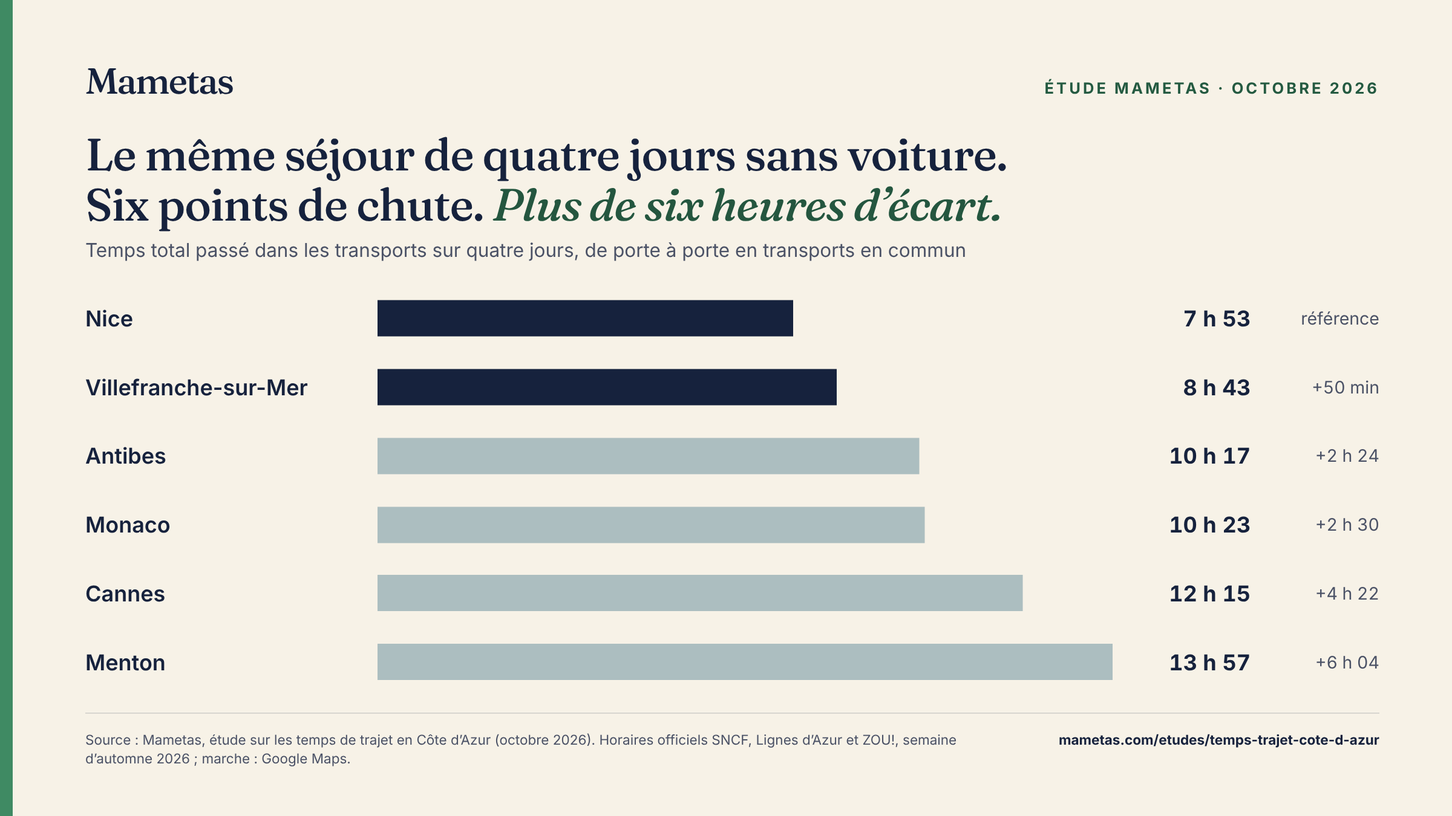
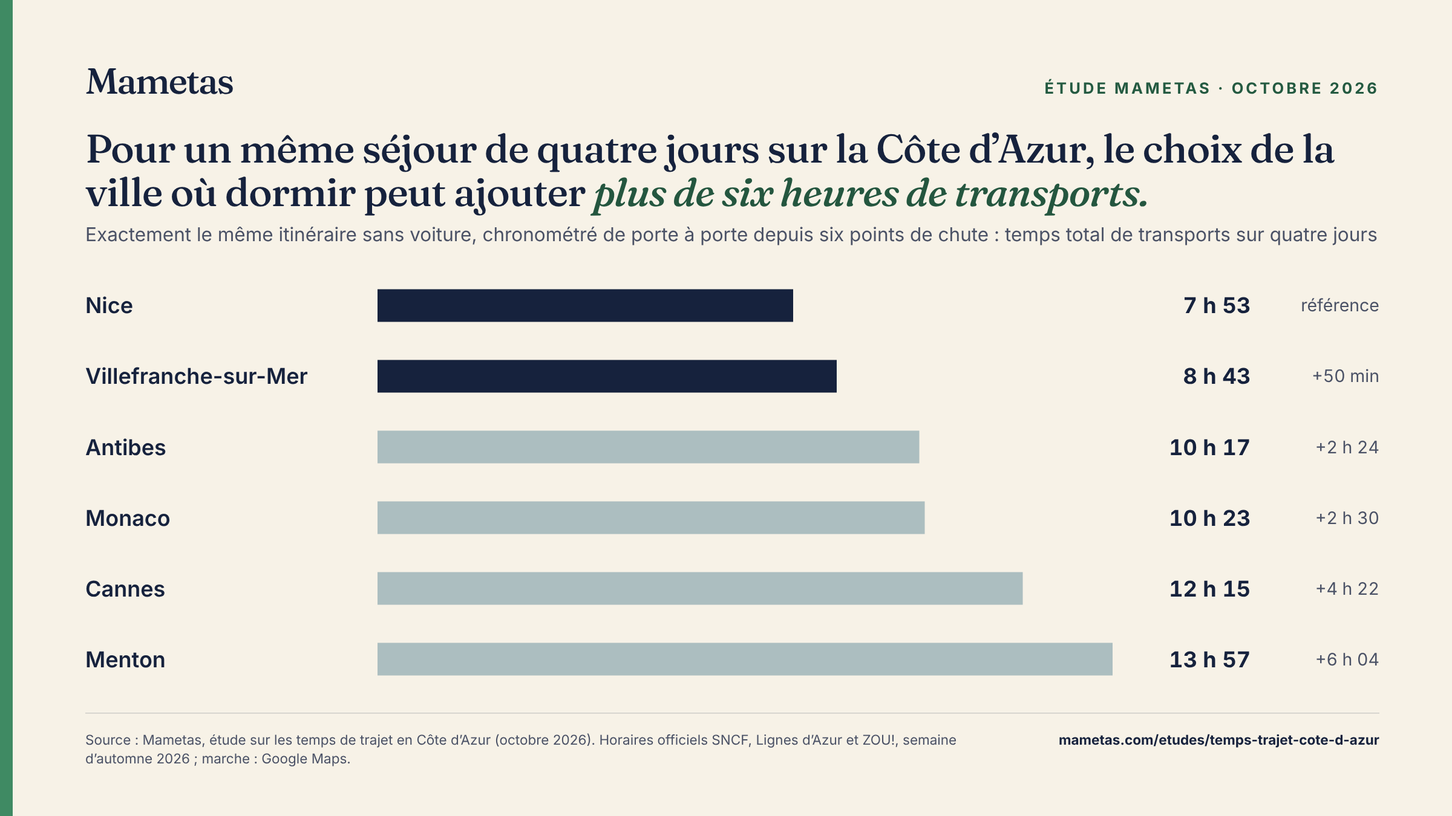
Kit presse : angle « Where you stay can add more than six hours of travel »
- Bloc presse EN/FR, cartes Pratique EN/FR, graphiques presse EN/FR et descriptions
  (meta, og, twitter) des pages étude : l'accroche dit explicitement que c'est le choix
  de la ville où l'on dort qui ajoute plus de six heures de transport, chiffres exacts ensuite.
- Le bandeau HP garde « Same trip. Same sights. » comme signature.

Claude-Session: https://claude.ai/code/session_0178RkrA6fxdvZhBzZqEbeS6

diff --git a/site/presse/index.html b/site/presse/index.html
@@ -1,5 +1,5 @@
 <!doctype html><html lang="fr"><head><meta charset="utf-8"><meta name="viewport" content="width=device-width,initial-scale=1"><title>Presse & professionnels | Mametas</title><meta name="description" content="Mametas en une phrase, sa méthode, ses outils Riviera Fit et Hotel Fit, et le contact presse et professionnels du tourisme."><link rel="canonical" href="https://www.mametas.com/presse/"><link rel="alternate" hreflang="fr" href="https://www.mametas.com/presse/"><link rel="alternate" hreflang="en" href="https://www.mametas.com/en/press/"><link rel="alternate" hreflang="x-default" href="https://www.mametas.com/en/press/"><meta name="robots" content="index,follow"><link rel="stylesheet" href="/assets/v3.css?v=1.3"><link href="/favicon.svg" rel="icon" type="image/svg+xml"><script defer src="/assets/consent.js?v=1.1"></script><link rel="stylesheet" href="/assets/mametas-shell-v1.css?v=1.2">
 <link rel="stylesheet" href="/assets/mametas-foundation.css?v=1.10">
 <style>.press-research{padding-bottom:0}.press-research .data-entry-card--study .data-entry-stats{background:rgba(63,138,99,.08)}.press-research .data-entry-card--study .data-entry-stats b{color:#24563f}.press-research .data-entry-note{line-height:1.9}@media(max-width:800px){.data-entry-card--study .data-entry-stats{grid-template-columns:1fr 1fr;grid-template-rows:auto auto;grid-auto-flow:column;column-gap:18px;padding:20px}.data-entry-card--study .data-entry-stats em{margin-bottom:0}}</style>
-</head><body><header class="mametas-global-header" data-mametas-shell="v1"><div class="mametas-global-header-inner"><a class="mametas-global-brand" href="/fr/" aria-label="Mametas"><span class="mametas-global-brand-name">Mametas</span><span class="mametas-global-brand-line">They know the Riviera.</span></a><nav class="mametas-global-nav" aria-label="Navigation principale"><ul><li><a href="/fr/planifier/">Préparer</a></li><li><a href="/riviera-guide/">Destinations</a></li><li><a href="/hotels/">Dormir</a></li><li><a href="/explore/">Explorer</a></li><li><a href="/pratique/">Pratique</a></li></ul></nav><div class="mametas-global-lang" aria-label="Langue"><a class="active" href="/presse/" aria-current="page">FR</a><span>/</span><a class="" href="/en/press/">EN</a></div><details class="mametas-global-mobile"><summary aria-label="Menu"><span></span><span></span><span></span></summary><div class="mametas-global-mobile-panel"><nav aria-label="Navigation principale"><ul><li><a href="/fr/planifier/">Préparer</a></li><li><a href="/riviera-guide/">Destinations</a></li><li><a href="/hotels/">Dormir</a></li><li><a href="/explore/">Explorer</a></li><li><a href="/pratique/">Pratique</a></li></ul></nav><div class="mametas-global-mobile-lang"><a class="active" href="/presse/" aria-current="page">FR</a><span>/</span><a class="" href="/en/press/">EN</a></div></div></details></div></header><main><header class="article-hero"><div class="wrap"><p class="eyebrow">PRESSE & PROFESSIONNELS</p><h1>Un guide qui tranche, puis montre son raisonnement.</h1><p class="article-deck">Mametas aborde la Côte d’Azur comme une série de décisions : où dormir, faut-il une voiture, quel hôtel correspond au séjour, quelle friction accepter et ce qu’on peut laisser tomber sans regret.</p></div></header><section class="v3-section press-research"><div class="wrap"><p class="eyebrow">DERNIÈRE ÉTUDE MAMETAS</p><div class="data-entry-card data-entry-card--study"><span class="data-entry-stats"><b>+6 h</b><em>d’écart de transport</em><b>6</b><em>villes chronométrées</em></span><span class="data-entry-copy"><small>ÉTUDE SUR LES TEMPS DE TRAJET EN CÔTE D’AZUR · OCTOBRE 2026</small><strong>Même séjour de quatre jours sans voiture. Six points de chute. Plus de six heures d’écart dans les transports.</strong><p>Chronométré de porte à porte sur les horaires officiels SNCF, Lignes d’Azur et ZOU!. Méthode, sources, limites et données sont publiques ; les chiffres peuvent être repris avec un lien vers l’étude.</p><a href="/etudes/temps-trajet-cote-d-azur/"><b>Lire l’étude →</b></a><p class="data-entry-note"><a href="/assets/studies/etude-temps-trajet-cote-d-azur-donnees-2026.xlsx" download>Télécharger les données (XLSX)</a> · <a href="/assets/studies/etude-temps-trajet-cote-d-azur-graphique-fr.png" download>Graphique presse (PNG)</a> · Contact presse : <a href="mailto:hello@mametas.com">hello@mametas.com</a></p></span></div></div></section><section class="v3-section"><div class="wrap press-grid"><article><span>01</span><h2>Mametas en une phrase</h2><p>La plupart des guides disent ce qu’il y a. Mametas dit ce qui vous correspond, et ce qu’il vaut mieux éviter.</p></article><article><span>02</span><h2>Deux outils, une même logique</h2><p><strong>Mametas Riviera Fit</strong> choisit une ville. <strong>Mametas Hotel Fit</strong> réduit la sélection d’hôtels une fois la géographie réglée. <strong>À savoir</strong> n’est pas un troisième outil : c’est la couche qui rend visibles la voiture, le budget, la saison et la friction dans les recommandations.</p></article><article><span>03</span><h2>La méthode</h2><p>Sources identifiables, dates de vérification visibles et séparation nette entre faits vérifiés et jugement éditorial. <a href="/methode/">Voir Mametas Checked →</a></p></article><article><span>04</span><h2>Éditeur</h2><p>Mametas est créé et édité par Renaud Muraire, Niçois. Les cinq Mametas sont des personnages éditoriaux fictifs. <a href="/a-propos/">À propos →</a></p></article></div><div class="wrap press-contact"><p class="eyebrow">CONTACT</p><h2>Journalistes, offices de tourisme, hôtels et acteurs de la Riviera.</h2><p>Pour une information, un visuel, une correction documentée, une interview ou un partenariat éditorial : <a href="mailto:hello@mametas.com">hello@mametas.com</a>.</p></div></section></main><footer class="mametas-global-footer" data-mametas-shell="v1"><div class="mametas-global-footer-inner"><div class="mametas-global-footer-brand"><span>Mametas</span><p>They know the Riviera.</p></div><div class="mametas-global-footer-col"><strong>Navigation</strong><a href="/fr/planifier/">Préparer</a><a href="/riviera-guide/">Destinations</a><a href="/hotels/">Dormir</a><a href="/explore/">Explorer</a><a href="/pratique/">Pratique</a></div><div class="mametas-global-footer-col"><strong>Mametas</strong><a href="/a-propos/">À propos</a><a href="/methode/">Méthode & Mametas Checked</a><a href="/lexique/">Mini-lexique niçois</a><a data-privacy-link="true" href="/fr/confidentialite/">Confidentialité & cookies</a><a href="/fr/mentions-legales/">Mentions légales</a></div></div><div class="mametas-global-footer-bottom"><span>Sélection éditoriale indépendante. Informations pratiques vérifiées. Certains liens sont affiliés.</span><span>© 2026 Mametas</span></div></footer><script src="/assets/v3.js?v=0.8"></script><script defer src="/assets/mametas-shell-v1.js?v=1.0"></script>
+</head><body><header class="mametas-global-header" data-mametas-shell="v1"><div class="mametas-global-header-inner"><a class="mametas-global-brand" href="/fr/" aria-label="Mametas"><span class="mametas-global-brand-name">Mametas</span><span class="mametas-global-brand-line">They know the Riviera.</span></a><nav class="mametas-global-nav" aria-label="Navigation principale"><ul><li><a href="/fr/planifier/">Préparer</a></li><li><a href="/riviera-guide/">Destinations</a></li><li><a href="/hotels/">Dormir</a></li><li><a href="/explore/">Explorer</a></li><li><a href="/pratique/">Pratique</a></li></ul></nav><div class="mametas-global-lang" aria-label="Langue"><a class="active" href="/presse/" aria-current="page">FR</a><span>/</span><a class="" href="/en/press/">EN</a></div><details class="mametas-global-mobile"><summary aria-label="Menu"><span></span><span></span><span></span></summary><div class="mametas-global-mobile-panel"><nav aria-label="Navigation principale"><ul><li><a href="/fr/planifier/">Préparer</a></li><li><a href="/riviera-guide/">Destinations</a></li><li><a href="/hotels/">Dormir</a></li><li><a href="/explore/">Explorer</a></li><li><a href="/pratique/">Pratique</a></li></ul></nav><div class="mametas-global-mobile-lang"><a class="active" href="/presse/" aria-current="page">FR</a><span>/</span><a class="" href="/en/press/">EN</a></div></div></details></div></header><main><header class="article-hero"><div class="wrap"><p class="eyebrow">PRESSE & PROFESSIONNELS</p><h1>Un guide qui tranche, puis montre son raisonnement.</h1><p class="article-deck">Mametas aborde la Côte d’Azur comme une série de décisions : où dormir, faut-il une voiture, quel hôtel correspond au séjour, quelle friction accepter et ce qu’on peut laisser tomber sans regret.</p></div></header><section class="v3-section press-research"><div class="wrap"><p class="eyebrow">DERNIÈRE ÉTUDE MAMETAS</p><div class="data-entry-card data-entry-card--study"><span class="data-entry-stats"><b>+6 h</b><em>d’écart de transport</em><b>6</b><em>villes chronométrées</em></span><span class="data-entry-copy"><small>ÉTUDE SUR LES TEMPS DE TRAJET EN CÔTE D’AZUR · OCTOBRE 2026</small><strong>Pour un même séjour de quatre jours sur la Côte d’Azur, le choix de la ville où dormir peut ajouter plus de six heures de transports.</strong><p>Nous avons chronométré exactement le même itinéraire sans voiture depuis six points de chute, de porte à porte sur les horaires officiels SNCF, Lignes d’Azur et ZOU! : 7 h 53 de transports depuis Nice, 13 h 57 depuis Menton. Méthode, sources, limites et données sont publiques ; les chiffres peuvent être repris avec un lien vers l’étude.</p><a href="/etudes/temps-trajet-cote-d-azur/"><b>Lire l’étude →</b></a><p class="data-entry-note"><a href="/assets/studies/etude-temps-trajet-cote-d-azur-donnees-2026.xlsx" download>Télécharger les données (XLSX)</a> · <a href="/assets/studies/etude-temps-trajet-cote-d-azur-graphique-fr.png" download>Graphique presse (PNG)</a> · Contact presse : <a href="mailto:hello@mametas.com">hello@mametas.com</a></p></span></div></div></section><section class="v3-section"><div class="wrap press-grid"><article><span>01</span><h2>Mametas en une phrase</h2><p>La plupart des guides disent ce qu’il y a. Mametas dit ce qui vous correspond, et ce qu’il vaut mieux éviter.</p></article><article><span>02</span><h2>Deux outils, une même logique</h2><p><strong>Mametas Riviera Fit</strong> choisit une ville. <strong>Mametas Hotel Fit</strong> réduit la sélection d’hôtels une fois la géographie réglée. <strong>À savoir</strong> n’est pas un troisième outil : c’est la couche qui rend visibles la voiture, le budget, la saison et la friction dans les recommandations.</p></article><article><span>03</span><h2>La méthode</h2><p>Sources identifiables, dates de vérification visibles et séparation nette entre faits vérifiés et jugement éditorial. <a href="/methode/">Voir Mametas Checked →</a></p></article><article><span>04</span><h2>Éditeur</h2><p>Mametas est créé et édité par Renaud Muraire, Niçois. Les cinq Mametas sont des personnages éditoriaux fictifs. <a href="/a-propos/">À propos →</a></p></article></div><div class="wrap press-contact"><p class="eyebrow">CONTACT</p><h2>Journalistes, offices de tourisme, hôtels et acteurs de la Riviera.</h2><p>Pour une information, un visuel, une correction documentée, une interview ou un partenariat éditorial : <a href="mailto:hello@mametas.com">hello@mametas.com</a>.</p></div></section></main><footer class="mametas-global-footer" data-mametas-shell="v1"><div class="mametas-global-footer-inner"><div class="mametas-global-footer-brand"><span>Mametas</span><p>They know the Riviera.</p></div><div class="mametas-global-footer-col"><strong>Navigation</strong><a href="/fr/planifier/">Préparer</a><a href="/riviera-guide/">Destinations</a><a href="/hotels/">Dormir</a><a href="/explore/">Explorer</a><a href="/pratique/">Pratique</a></div><div class="mametas-global-footer-col"><strong>Mametas</strong><a href="/a-propos/">À propos</a><a href="/methode/">Méthode & Mametas Checked</a><a href="/lexique/">Mini-lexique niçois</a><a data-privacy-link="true" href="/fr/confidentialite/">Confidentialité & cookies</a><a href="/fr/mentions-legales/">Mentions légales</a></div></div><div class="mametas-global-footer-bottom"><span>Sélection éditoriale indépendante. Informations pratiques vérifiées. Certains liens sont affiliés.</span><span>© 2026 Mametas</span></div></footer><script src="/assets/v3.js?v=0.8"></script><script defer src="/assets/mametas-shell-v1.js?v=1.0"></script>
 </body></html>

diff --git a/site/en/press/index.html b/site/en/press/index.html
@@ -1,5 +1,5 @@
 <!doctype html><html lang="en"><head><meta charset="utf-8"><meta name="viewport" content="width=device-width,initial-scale=1"><title>Press & professionals | Mametas</title><meta name="description" content="Mametas in one sentence, its method, Riviera Fit and Hotel Fit, plus press and tourism-industry contact details."><link rel="canonical" href="https://www.mametas.com/en/press/"><link rel="alternate" hreflang="fr" href="https://www.mametas.com/presse/"><link rel="alternate" hreflang="en" href="https://www.mametas.com/en/press/"><link rel="alternate" hreflang="x-default" href="https://www.mametas.com/en/press/"><meta name="robots" content="index,follow"><link rel="stylesheet" href="/assets/v3.css?v=1.3"><link href="/favicon.svg" rel="icon" type="image/svg+xml"><script defer src="/assets/consent.js?v=1.1"></script><link rel="stylesheet" href="/assets/mametas-shell-v1.css?v=1.2">
 <link rel="stylesheet" href="/assets/mametas-foundation.css?v=1.10">
 <style>.press-research{padding-bottom:0}.press-research .data-entry-card--study .data-entry-stats{background:rgba(63,138,99,.08)}.press-research .data-entry-card--study .data-entry-stats b{color:#24563f}.press-research .data-entry-note{line-height:1.9}@media(max-width:800px){.data-entry-card--study .data-entry-stats{grid-template-columns:1fr 1fr;grid-template-rows:auto auto;grid-auto-flow:column;column-gap:18px;padding:20px}.data-entry-card--study .data-entry-stats em{margin-bottom:0}}</style>
-</head><body><header class="mametas-global-header" data-mametas-shell="v1"><div class="mametas-global-header-inner"><a class="mametas-global-brand" href="/" aria-label="Mametas"><span class="mametas-global-brand-name">Mametas</span><span class="mametas-global-brand-line">They know the Riviera.</span></a><nav class="mametas-global-nav" aria-label="Primary navigation"><ul><li><a href="/plan/">Plan</a></li><li><a href="/en/riviera-guide/">Destinations</a></li><li><a href="/en/hotels/">Stay</a></li><li><a href="/en/explore/">Explore</a></li><li><a href="/en/practical/">Practical</a></li></ul></nav><div class="mametas-global-lang" aria-label="Language"><a class="" href="/presse/">FR</a><span>/</span><a class="active" href="/en/press/" aria-current="page">EN</a></div><details class="mametas-global-mobile"><summary aria-label="Menu"><span></span><span></span><span></span></summary><div class="mametas-global-mobile-panel"><nav aria-label="Primary navigation"><ul><li><a href="/plan/">Plan</a></li><li><a href="/en/riviera-guide/">Destinations</a></li><li><a href="/en/hotels/">Stay</a></li><li><a href="/en/explore/">Explore</a></li><li><a href="/en/practical/">Practical</a></li></ul></nav><div class="mametas-global-mobile-lang"><a class="" href="/presse/">FR</a><span>/</span><a class="active" href="/en/press/" aria-current="page">EN</a></div></div></details></div></header><main><header class="article-hero"><div class="wrap"><p class="eyebrow">PRESS & PROFESSIONALS</p><h1>A guide that makes the call, then shows its reasoning.</h1><p class="article-deck">Mametas turns the French Riviera into a decision problem: where to stay, whether you need a car, which hotel fits the trip, which friction is worth accepting and what you can skip without regret.</p></div></header><section class="v3-section press-research"><div class="wrap"><p class="eyebrow">LATEST MAMETAS RESEARCH</p><div class="data-entry-card data-entry-card--study"><span class="data-entry-stats"><b>+6 h</b><em>travel-time gap</em><b>6</b><em>bases timed</em></span><span class="data-entry-copy"><small>RIVIERA TRAVEL TIME STUDY · OCTOBER 2026</small><strong>Same four-day car-free itinerary. Six places to stay. More than six hours’ difference in travel time.</strong><p>Timed door to door on official SNCF, Lignes d’Azur and ZOU! timetables. Method, sources, limitations and data are public; figures may be quoted with a link to the study.</p><a href="/en/studies/riviera-travel-time-study/"><b>Read the study →</b></a><p class="data-entry-note"><a href="/assets/studies/riviera-travel-time-study-data-2026.xlsx" download>Download the data (XLSX)</a> · <a href="/assets/studies/riviera-travel-time-study-chart-en.png" download>Press chart (PNG)</a> · Press enquiries: <a href="mailto:hello@mametas.com">hello@mametas.com</a></p></span></div></div></section><section class="v3-section"><div class="wrap press-grid"><article><span>01</span><h2>Mametas in one sentence</h2><p>Most Riviera guides tell you what’s there. Mametas tells you what fits, and what to skip.</p></article><article><span>02</span><h2>Two tools, one way of deciding</h2><p><strong>Mametas Riviera Fit</strong> chooses a base. <strong>Mametas Hotel Fit</strong> narrows the hotel selection once geography is settled. <strong>Reality Check</strong> is not a third tool: it is the part of each recommendation that spells out car, budget, season and friction.</p></article><article><span>03</span><h2>The method</h2><p>Identifiable sources, visible check dates and a clear separation between checked facts and editorial judgement. <a href="/en/method/">See Mametas Checked →</a></p></article><article><span>04</span><h2>Editor</h2><p>Mametas is created and edited by Renaud Muraire, a Niçois. The five Mametas are fictional editorial characters. <a href="/en/about/">About →</a></p></article></div><div class="wrap press-contact"><p class="eyebrow">CONTACT</p><h2>Journalists, tourist offices, hotels and Riviera professionals.</h2><p>For information, imagery, a documented correction, an interview or an editorial partnership: <a href="mailto:hello@mametas.com">hello@mametas.com</a>.</p></div></section></main><footer class="mametas-global-footer" data-mametas-shell="v1"><div class="mametas-global-footer-inner"><div class="mametas-global-footer-brand"><span>Mametas</span><p>They know the Riviera.</p></div><div class="mametas-global-footer-col"><strong>Navigate</strong><a href="/plan/">Plan</a><a href="/en/riviera-guide/">Destinations</a><a href="/en/hotels/">Stay</a><a href="/en/explore/">Explore</a><a href="/en/practical/">Practical</a></div><div class="mametas-global-footer-col"><strong>Mametas</strong><a href="/en/about/">About</a><a href="/en/method/">Method & Mametas Checked</a><a href="/en/lexicon/">Niçois mini-lexicon</a><a data-privacy-link="true" href="/privacy/">Privacy & cookies</a><a href="/legal-notice/">Legal notice</a></div></div><div class="mametas-global-footer-bottom"><span>Independent editorial selection. Practical details checked. Some links are affiliate links.</span><span>© 2026 Mametas</span></div></footer><script src="/assets/v3.js?v=0.8"></script><script defer src="/assets/mametas-shell-v1.js?v=1.0"></script>
+</head><body><header class="mametas-global-header" data-mametas-shell="v1"><div class="mametas-global-header-inner"><a class="mametas-global-brand" href="/" aria-label="Mametas"><span class="mametas-global-brand-name">Mametas</span><span class="mametas-global-brand-line">They know the Riviera.</span></a><nav class="mametas-global-nav" aria-label="Primary navigation"><ul><li><a href="/plan/">Plan</a></li><li><a href="/en/riviera-guide/">Destinations</a></li><li><a href="/en/hotels/">Stay</a></li><li><a href="/en/explore/">Explore</a></li><li><a href="/en/practical/">Practical</a></li></ul></nav><div class="mametas-global-lang" aria-label="Language"><a class="" href="/presse/">FR</a><span>/</span><a class="active" href="/en/press/" aria-current="page">EN</a></div><details class="mametas-global-mobile"><summary aria-label="Menu"><span></span><span></span><span></span></summary><div class="mametas-global-mobile-panel"><nav aria-label="Primary navigation"><ul><li><a href="/plan/">Plan</a></li><li><a href="/en/riviera-guide/">Destinations</a></li><li><a href="/en/hotels/">Stay</a></li><li><a href="/en/explore/">Explore</a></li><li><a href="/en/practical/">Practical</a></li></ul></nav><div class="mametas-global-mobile-lang"><a class="" href="/presse/">FR</a><span>/</span><a class="active" href="/en/press/" aria-current="page">EN</a></div></div></details></div></header><main><header class="article-hero"><div class="wrap"><p class="eyebrow">PRESS & PROFESSIONALS</p><h1>A guide that makes the call, then shows its reasoning.</h1><p class="article-deck">Mametas turns the French Riviera into a decision problem: where to stay, whether you need a car, which hotel fits the trip, which friction is worth accepting and what you can skip without regret.</p></div></header><section class="v3-section press-research"><div class="wrap"><p class="eyebrow">LATEST MAMETAS RESEARCH</p><div class="data-entry-card data-entry-card--study"><span class="data-entry-stats"><b>+6 h</b><em>travel-time gap</em><b>6</b><em>bases timed</em></span><span class="data-entry-copy"><small>RIVIERA TRAVEL TIME STUDY · OCTOBER 2026</small><strong>Where you stay can add more than six hours of travel to the same four-day Riviera trip.</strong><p>We timed exactly the same car-free itinerary from six Riviera bases, door to door on official SNCF, Lignes d’Azur and ZOU! timetables: 7 h 53 of travel from Nice, 13 h 57 from Menton. Method, sources, limitations and data are public; figures may be quoted with a link to the study.</p><a href="/en/studies/riviera-travel-time-study/"><b>Read the study →</b></a><p class="data-entry-note"><a href="/assets/studies/riviera-travel-time-study-data-2026.xlsx" download>Download the data (XLSX)</a> · <a href="/assets/studies/riviera-travel-time-study-chart-en.png" download>Press chart (PNG)</a> · Press enquiries: <a href="mailto:hello@mametas.com">hello@mametas.com</a></p></span></div></div></section><section class="v3-section"><div class="wrap press-grid"><article><span>01</span><h2>Mametas in one sentence</h2><p>Most Riviera guides tell you what’s there. Mametas tells you what fits, and what to skip.</p></article><article><span>02</span><h2>Two tools, one way of deciding</h2><p><strong>Mametas Riviera Fit</strong> chooses a base. <strong>Mametas Hotel Fit</strong> narrows the hotel selection once geography is settled. <strong>Reality Check</strong> is not a third tool: it is the part of each recommendation that spells out car, budget, season and friction.</p></article><article><span>03</span><h2>The method</h2><p>Identifiable sources, visible check dates and a clear separation between checked facts and editorial judgement. <a href="/en/method/">See Mametas Checked →</a></p></article><article><span>04</span><h2>Editor</h2><p>Mametas is created and edited by Renaud Muraire, a Niçois. The five Mametas are fictional editorial characters. <a href="/en/about/">About →</a></p></article></div><div class="wrap press-contact"><p class="eyebrow">CONTACT</p><h2>Journalists, tourist offices, hotels and Riviera professionals.</h2><p>For information, imagery, a documented correction, an interview or an editorial partnership: <a href="mailto:hello@mametas.com">hello@mametas.com</a>.</p></div></section></main><footer class="mametas-global-footer" data-mametas-shell="v1"><div class="mametas-global-footer-inner"><div class="mametas-global-footer-brand"><span>Mametas</span><p>They know the Riviera.</p></div><div class="mametas-global-footer-col"><strong>Navigate</strong><a href="/plan/">Plan</a><a href="/en/riviera-guide/">Destinations</a><a href="/en/hotels/">Stay</a><a href="/en/explore/">Explore</a><a href="/en/practical/">Practical</a></div><div class="mametas-global-footer-col"><strong>Mametas</strong><a href="/en/about/">About</a><a href="/en/method/">Method & Mametas Checked</a><a href="/en/lexicon/">Niçois mini-lexicon</a><a data-privacy-link="true" href="/privacy/">Privacy & cookies</a><a href="/legal-notice/">Legal notice</a></div></div><div class="mametas-global-footer-bottom"><span>Independent editorial selection. Practical details checked. Some links are affiliate links.</span><span>© 2026 Mametas</span></div></footer><script src="/assets/v3.js?v=0.8"></script><script defer src="/assets/mametas-shell-v1.js?v=1.0"></script>
 </body></html>

diff --git a/site/etudes/temps-trajet-cote-d-azur/index.html b/site/etudes/temps-trajet-cote-d-azur/index.html
@@ -5,7 +5,7 @@
 <meta charset="utf-8"/>
 <meta content="width=device-width,initial-scale=1" name="viewport"/>
 <title>Étude : temps de trajet sur la Côte d’Azur depuis six villes | Mametas</title>
-<meta content="Étude Mametas : le même séjour de quatre jours sans voiture, chronométré de porte à porte sur les horaires officiels depuis six villes. Résultats, méthode, données." name="description"/>
+<meta content="Étude Mametas : pour un même séjour de quatre jours sans voiture, le choix de la ville où dormir peut ajouter plus de six heures de transports. Méthode et données." name="description"/>
 <link href="https://www.mametas.com/etudes/temps-trajet-cote-d-azur/" rel="canonical"/>
 <link href="https://www.mametas.com/etudes/temps-trajet-cote-d-azur/" hreflang="fr" rel="alternate"/>
 <link href="https://www.mametas.com/en/studies/riviera-travel-time-study/" hreflang="en" rel="alternate"/>
@@ -15,13 +15,13 @@
 <link href="https://fonts.googleapis.com/css2?family=Fraunces:ital,opsz,wght@0,9..144,400;0,9..144,500;0,9..144,600;1,9..144,500&amp;family=Inter:wght@400;500;600&amp;display=swap" rel="stylesheet"/>
 <link href="/assets/site.css?v=24.1" rel="stylesheet"/>
 <meta content="Étude : temps de trajet sur la Côte d’Azur depuis six villes | Mametas" property="og:title"/>
-<meta content="Étude Mametas : le même séjour de quatre jours sans voiture, chronométré de porte à porte sur les horaires officiels depuis six villes. Résultats, méthode, données." property="og:description"/>
+<meta content="Étude Mametas : pour un même séjour de quatre jours sans voiture, le choix de la ville où dormir peut ajouter plus de six heures de transports. Méthode et données." property="og:description"/>
 <meta content="article" property="og:type"/>
 <meta content="https://www.mametas.com/assets/studies/etude-temps-trajet-cote-d-azur-graphique-fr.png" property="og:image"/>
 <meta content="2400" property="og:image:width"/><meta content="1350" property="og:image:height"/>
 <meta content="Graphique de l’étude Mametas : temps de transport total sur le même séjour de quatre jours sans voiture, depuis six points de chute" property="og:image:alt"/>
 <meta content="https://www.mametas.com/etudes/temps-trajet-cote-d-azur/" property="og:url"/>
-<meta content="index,follow,max-image-preview:large" name="robots"/><meta content="Mametas" property="og:site_name"/><meta content="fr_FR" property="og:locale"/><meta content="summary_large_image" name="twitter:card"/><meta content="https://www.mametas.com/assets/studies/etude-temps-trajet-cote-d-azur-graphique-fr.png" name="twitter:image"/><meta content="Étude : temps de trajet sur la Côte d’Azur depuis six villes | Mametas" name="twitter:title"/><meta content="Étude Mametas : le même séjour de quatre jours sans voiture, chronométré de porte à porte sur les horaires officiels depuis six villes. Résultats, méthode, données." name="twitter:description"/><script type="application/ld+json">{"@context":"https://schema.org","@graph":[{"@type":"WebPage","name":"Étude sur les temps de trajet en Côte d’Azur : le même séjour de quatre jours, chronométré depuis six villes","url":"https://www.mametas.com/etudes/temps-trajet-cote-d-azur/","inLanguage":"fr","datePublished":"2026-10-16","author":{"@type":"Person","name":"Renaud Muraire"},"isPartOf":{"@type":"WebSite","name":"Mametas","url":"https://www.mametas.com/"}},{"@type":"BreadcrumbList","itemListElement":[{"@type":"ListItem","position":1,"name":"Mametas","item":"https://www.mametas.com/fr/"},{"@type":"ListItem","position":2,"name":"Étude sur les temps de trajet en Côte d’Azur : le même séjour de quatre jours, chronométré depuis six villes","item":"https://www.mametas.com/etudes/temps-trajet-cote-d-azur/"}]}]}</script><link href="/favicon.svg" rel="icon" type="image/svg+xml"/><script defer src="/assets/consent.js?v=1.1"></script><link rel="stylesheet" href="/assets/mametas-shell-v1.css?v=1.2"><link rel="stylesheet" href="/assets/mametas-foundation.css?v=1.10"><link rel="stylesheet" href="/assets/mametas-v35-ui-polish.css?v=2">
+<meta content="index,follow,max-image-preview:large" name="robots"/><meta content="Mametas" property="og:site_name"/><meta content="fr_FR" property="og:locale"/><meta content="summary_large_image" name="twitter:card"/><meta content="https://www.mametas.com/assets/studies/etude-temps-trajet-cote-d-azur-graphique-fr.png" name="twitter:image"/><meta content="Étude : temps de trajet sur la Côte d’Azur depuis six villes | Mametas" name="twitter:title"/><meta content="Étude Mametas : pour un même séjour de quatre jours sans voiture, le choix de la ville où dormir peut ajouter plus de six heures de transports. Méthode et données." name="twitter:description"/><script type="application/ld+json">{"@context":"https://schema.org","@graph":[{"@type":"WebPage","name":"Étude sur les temps de trajet en Côte d’Azur : le même séjour de quatre jours, chronométré depuis six villes","url":"https://www.mametas.com/etudes/temps-trajet-cote-d-azur/","inLanguage":"fr","datePublished":"2026-10-16","author":{"@type":"Person","name":"Renaud Muraire"},"isPartOf":{"@type":"WebSite","name":"Mametas","url":"https://www.mametas.com/"}},{"@type":"BreadcrumbList","itemListElement":[{"@type":"ListItem","position":1,"name":"Mametas","item":"https://www.mametas.com/fr/"},{"@type":"ListItem","position":2,"name":"Étude sur les temps de trajet en Côte d’Azur : le même séjour de quatre jours, chronométré depuis six villes","item":"https://www.mametas.com/etudes/temps-trajet-cote-d-azur/"}]}]}</script><link href="/favicon.svg" rel="icon" type="image/svg+xml"/><script defer src="/assets/consent.js?v=1.1"></script><link rel="stylesheet" href="/assets/mametas-shell-v1.css?v=1.2"><link rel="stylesheet" href="/assets/mametas-foundation.css?v=1.10"><link rel="stylesheet" href="/assets/mametas-v35-ui-polish.css?v=2">
 <style>
 /* Étude Mametas « Riviera sans voiture » : graphique et blocs d'ouverture */
 .article .study-hook{margin-bottom:28px}

diff --git a/site/en/studies/riviera-travel-time-study/index.html b/site/en/studies/riviera-travel-time-study/index.html
@@ -5,7 +5,7 @@
 <meta charset="utf-8"/>
 <meta content="width=device-width,initial-scale=1" name="viewport"/>
 <title>Riviera travel time study: one holiday, six bases | Mametas</title>
-<meta content="Mametas data study: one four-day car-free Riviera itinerary, timed door to door on official timetables from six bases. Results, method, full data and sources." name="description"/>
+<meta content="Mametas data study: where you stay can add more than six hours of travel to the same four-day car-free Riviera trip. Results, method, data and sources." name="description"/>
 <link href="https://www.mametas.com/en/studies/riviera-travel-time-study/" rel="canonical"/>
 <link href="https://www.mametas.com/etudes/temps-trajet-cote-d-azur/" hreflang="fr" rel="alternate"/>
 <link href="https://www.mametas.com/en/studies/riviera-travel-time-study/" hreflang="en" rel="alternate"/>
@@ -15,13 +15,13 @@
 <link href="https://fonts.googleapis.com/css2?family=Fraunces:ital,opsz,wght@0,9..144,400;0,9..144,500;0,9..144,600;1,9..144,500&amp;family=Inter:wght@400;500;600&amp;display=swap" rel="stylesheet"/>
 <link href="/assets/site.css?v=24.1" rel="stylesheet"/>
 <meta content="Riviera travel time study: one holiday, six bases | Mametas" property="og:title"/>
-<meta content="Mametas data study: one four-day car-free Riviera itinerary, timed door to door on official timetables from six bases. Results, method, full data and sources." property="og:description"/>
+<meta content="Mametas data study: where you stay can add more than six hours of travel to the same four-day car-free Riviera trip. Results, method, data and sources." property="og:description"/>
 <meta content="article" property="og:type"/>
 <meta content="https://www.mametas.com/assets/studies/riviera-travel-time-study-chart-en.png" property="og:image"/>
 <meta content="2400" property="og:image:width"/><meta content="1350" property="og:image:height"/>
 <meta content="Mametas Riviera travel time study chart: total travel time over the same four-day car-free itinerary from six bases" property="og:image:alt"/>
 <meta content="https://www.mametas.com/en/studies/riviera-travel-time-study/" property="og:url"/>
-<meta content="index,follow,max-image-preview:large" name="robots"/><meta content="Mametas" property="og:site_name"/><meta content="en_US" property="og:locale"/><meta content="summary_large_image" name="twitter:card"/><meta content="https://www.mametas.com/assets/studies/riviera-travel-time-study-chart-en.png" name="twitter:image"/><meta content="Riviera travel time study: one holiday, six bases | Mametas" name="twitter:title"/><meta content="Mametas data study: one four-day car-free Riviera itinerary, timed door to door on official timetables from six bases. Results, method, full data and sources." name="twitter:description"/><script type="application/ld+json">{"@context":"https://schema.org","@graph":[{"@type":"WebPage","name":"Riviera travel time study: the same four-day holiday, timed from six bases","url":"https://www.mametas.com/en/studies/riviera-travel-time-study/","inLanguage":"en","datePublished":"2026-10-16","author":{"@type":"Person","name":"Renaud Muraire"},"isPartOf":{"@type":"WebSite","name":"Mametas","url":"https://www.mametas.com/"}},{"@type":"BreadcrumbList","itemListElement":[{"@type":"ListItem","position":1,"name":"Mametas","item":"https://www.mametas.com/"},{"@type":"ListItem","position":2,"name":"Riviera travel time study: the same four-day holiday, timed from six bases","item":"https://www.mametas.com/en/studies/riviera-travel-time-study/"}]}]}</script><link href="/favicon.svg" rel="icon" type="image/svg+xml"/><script defer src="/assets/consent.js?v=1.1"></script><link rel="stylesheet" href="/assets/mametas-shell-v1.css?v=1.2"><link rel="stylesheet" href="/assets/mametas-foundation.css?v=1.10"><link rel="stylesheet" href="/assets/mametas-v35-ui-polish.css?v=2">
+<meta content="index,follow,max-image-preview:large" name="robots"/><meta content="Mametas" property="og:site_name"/><meta content="en_US" property="og:locale"/><meta content="summary_large_image" name="twitter:card"/><meta content="https://www.mametas.com/assets/studies/riviera-travel-time-study-chart-en.png" name="twitter:image"/><meta content="Riviera travel time study: one holiday, six bases | Mametas" name="twitter:title"/><meta content="Mametas data study: where you stay can add more than six hours of travel to the same four-day car-free Riviera trip. Results, method, data and sources." name="twitter:description"/><script type="application/ld+json">{"@context":"https://schema.org","@graph":[{"@type":"WebPage","name":"Riviera travel time study: the same four-day holiday, timed from six bases","url":"https://www.mametas.com/en/studies/riviera-travel-time-study/","inLanguage":"en","datePublished":"2026-10-16","author":{"@type":"Person","name":"Renaud Muraire"},"isPartOf":{"@type":"WebSite","name":"Mametas","url":"https://www.mametas.com/"}},{"@type":"BreadcrumbList","itemListElement":[{"@type":"ListItem","position":1,"name":"Mametas","item":"https://www.mametas.com/"},{"@type":"ListItem","position":2,"name":"Riviera travel time study: the same four-day holiday, timed from six bases","item":"https://www.mametas.com/en/studies/riviera-travel-time-study/"}]}]}</script><link href="/favicon.svg" rel="icon" type="image/svg+xml"/><script defer src="/assets/consent.js?v=1.1"></script><link rel="stylesheet" href="/assets/mametas-shell-v1.css?v=1.2"><link rel="stylesheet" href="/assets/mametas-foundation.css?v=1.10"><link rel="stylesheet" href="/assets/mametas-v35-ui-polish.css?v=2">
 <style>
 /* Étude Mametas « Riviera sans voiture » : graphique et blocs d'ouverture */
 .article .study-hook{margin-bottom:28px}

diff --git a/site/pratique/index.html b/site/pratique/index.html
@@ -28,7 +28,7 @@
 <section class="v3-section practical-safety-entry" data-layer="safety-practical-entry-2026-09-30"><div class="wrap"><a class="practical-feature-card practical-feature-card--safety" href="/pratique/securite-urgences/"><span class="practical-feature-copy"><small>SI QUELQUE CHOSE TOURNE MAL</small><strong>Urgences, vol, incendie, secours en mer et la prochaine étape utile.</strong><p>Enregistrez les numéros une fois. Puis oubliez cette page, sauf en cas de besoin.</p><b>Ouvrir Sécurité &amp; urgences →</b></span></a></div></section>
 <section class="v3-section"><div class="wrap">
 <div class="section-heading"><div><p class="eyebrow">SOURCES &amp; ÉTUDES</p><h2>Vous voulez les chiffres derrière la Riviera ?</h2></div><p>Le marché touristique est facile à simplifier à tort. Mametas garde visibles les périmètres et les sources.</p></div>
-<a class="data-entry-card data-entry-card--study" href="/hotels/sans-voiture/"><span class="data-entry-stats"><b>+6 h</b><em>d’écart de transport</em><b>6</b><em>villes chronométrées</em></span><span class="data-entry-copy"><small>NOUVEAU · ÉTUDE MAMETAS · OCTOBRE 2026</small><strong>Sans voiture, le point de chute peut ajouter plus de six heures de transport.</strong><p>Le même séjour de quatre jours, chronométré de porte à porte sur les horaires officiels depuis six villes : près de 8 heures de transport depuis Nice, près de 14 depuis Menton.</p><b>Voir l’étude →</b></span></a>
+<a class="data-entry-card data-entry-card--study" href="/hotels/sans-voiture/"><span class="data-entry-stats"><b>+6 h</b><em>d’écart de transport</em><b>6</b><em>villes chronométrées</em></span><span class="data-entry-copy"><small>NOUVEAU · ÉTUDE MAMETAS · OCTOBRE 2026</small><strong>Pour un même séjour de quatre jours sur la Côte d’Azur, le choix de la ville où dormir peut ajouter plus de six heures de transports.</strong><p>Nous avons chronométré exactement le même itinéraire sans voiture depuis six points de chute, de porte à porte sur les horaires officiels : 7 h 53 de transports depuis Nice, 13 h 57 depuis Menton.</p><b>Voir l’étude →</b></span></a>
 <a class="data-entry-card" href="/chiffres-tourisme-cote-dazur/"><span class="data-entry-stats"><b>12 M+</b><em>touristes</em><b>&gt;50 %</b><em>internationaux</em></span><span class="data-entry-copy"><small>TOURISME CÔTE D’AZUR · 2025–2026</small><strong>Chiffres, marchés, nuitées et sources officielles.</strong><p>Observatoire Côte d’Azur, Insee et Aéroport de Nice, avec les périmètres statistiques explicités au lieu d’être mélangés.</p><b>Ouvrir les études &amp; données →</b></span></a>
 <p class="data-entry-note">Comment Mametas vérifie les informations pratiques : <a href="/methode/">voir la méthode Mametas →</a></p>
 </div></section>

diff --git a/site/en/practical/index.html b/site/en/practical/index.html
@@ -28,7 +28,7 @@
 <section class="v3-section practical-safety-entry" data-layer="safety-practical-entry-2026-09-30"><div class="wrap"><a class="practical-feature-card practical-feature-card--safety" href="/en/practical/safety-emergencies/"><span class="practical-feature-copy"><small>IF SOMETHING GOES WRONG</small><strong>Emergency numbers, theft, fire, sea rescue and the next useful step.</strong><p>Save the numbers once. Then forget this page unless you need it.</p><b>Open Safety &amp; Emergencies →</b></span></a></div></section>
 <section class="v3-section"><div class="wrap">
 <div class="section-heading"><div><p class="eyebrow">SOURCES &amp; STUDIES</p><h2>Want the numbers behind the Riviera?</h2></div><p>The tourism market is easy to oversimplify. Mametas keeps the scope and sources visible.</p></div>
-<a class="data-entry-card data-entry-card--study" href="/en/hotels/without-a-car/"><span class="data-entry-stats"><b>+6 h</b><em>travel-time gap</em><b>6</b><em>bases timed</em></span><span class="data-entry-copy"><small>NEW · MAMETAS STUDY · OCTOBER 2026</small><strong>Without a car, your base can add over six hours of travel.</strong><p>The same four-day Riviera itinerary, timed door to door on official timetables from six places to stay: nearly 8 hours of travel from Nice, nearly 14 from Menton.</p><b>See the study →</b></span></a>
+<a class="data-entry-card data-entry-card--study" href="/en/hotels/without-a-car/"><span class="data-entry-stats"><b>+6 h</b><em>travel-time gap</em><b>6</b><em>bases timed</em></span><span class="data-entry-copy"><small>NEW · MAMETAS STUDY · OCTOBER 2026</small><strong>Where you stay can add more than six hours of travel to the same four-day Riviera trip.</strong><p>We timed exactly the same car-free itinerary from six Riviera bases, door to door on official timetables: 7 h 53 of travel from Nice, 13 h 57 from Menton.</p><b>See the study →</b></span></a>
 <a class="data-entry-card" href="/en/french-riviera-tourism-statistics/"><span class="data-entry-stats"><b>12m+</b><em>tourists</em><b>&gt;50%</b><em>international</em></span><span class="data-entry-copy"><small>FRENCH RIVIERA TOURISM DATA · 2025–2026</small><strong>Tourism statistics, markets, nights and official sources.</strong><p>Côte d’Azur Observatory, INSEE and Nice Airport data, with the statistical scope stated rather than blended.</p><b>Open the studies &amp; data →</b></span></a>
 <p class="data-entry-note">How Mametas checks practical information: <a href="/en/method/">see the Mametas method →</a></p>
 </div></section>
